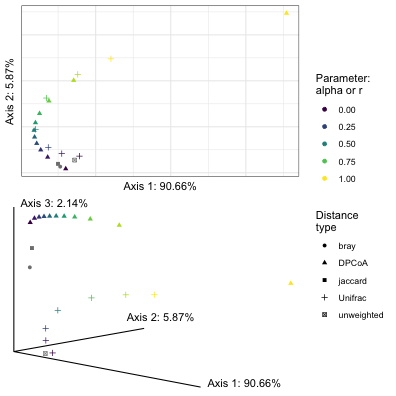
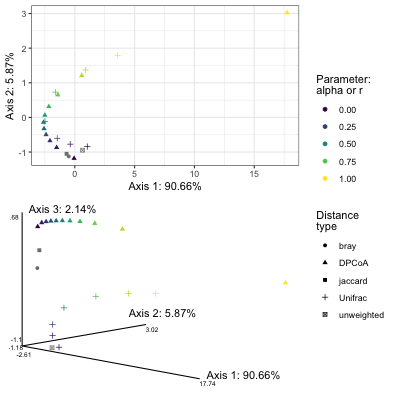
updated figures

diff --git a/make_plots.md b/make_plots.md
@@ -3,7 +3,7 @@
 ```r
 library(knitr)
 opts_chunk$set(cache=TRUE, cache.path = "figures-cache/",
-    fig.path = "figures/", dev="png",
+    fig.path = "figures/", dev=c("png"),
     fig.width = 5, fig.height = 3)
 ```
 
@@ -109,10 +109,19 @@ Accumulation plot:
 
 
 ```r
-contrib_accumulation_plot(contrib_matrix, phy_tree(abt_log), unlist(alpha_list))  +
+contrib_accumulation_plot_old(contrib_matrix, phy_tree(abt_log), unlist(alpha_list))  +
         geom_point(size=.5) + geom_line() +
         scale_x_log10(breaks = c(2, 5, 10, 25, 50, 100, 250, 500, 1000, 2500)) +
         xlab("Number of descendants") + ylab("Proportion of distance") + labs(color = "alpha")
+```
+
+![plot of chunk branch-decomp-accum-plot-old](figures/branch-decomp-accum-plot-old-1.png)
+
+
+```r
+contrib_accumulation_plot(contrib_matrix, phy_tree(abt_log), unlist(alpha_list))  +
+        geom_point(size=.5) + geom_line() +
+        xlab("Proportion of branches") + ylab("Proportion of distance") + labs(color = "alpha")
 ```
 
 ![plot of chunk branch-decomp-accum-plot](figures/branch-decomp-accum-plot-1.png)
@@ -174,6 +183,25 @@ ggplot(tree_and_covariates) +
 ```
 
 ![plot of chunk branch-decomp-avg-pairs-plot-abt](figures/branch-decomp-avg-pairs-plot-abt-2.png)
+
+Compute unnormalized branch contributions (for a full branches, not per unit branch).
+
+
+```r
+contrib_matrix_unnormalized = get_all_branch_contribs(
+    X = t(as(otu_table(abt_log), "matrix")),
+    tr = phy_tree(abt_log),
+    alpha_list = alpha_list, per_unit_branch = FALSE)
+```
+
+
+```r
+contrib_accumulation_plot(contrib_matrix_unnormalized, phy_tree(abt_log), unlist(alpha_list))  +
+        geom_point(size=.5) + geom_line() +
+        xlab("Proportion of branches") + ylab("Proportion of distance") + labs(color = "alpha")
+```
+
+![plot of chunk unnormalized-branch-decomp-accum-plot](figures/unnormalized-branch-decomp-accum-plot-1.png)
 
 ## Glomming
 
@@ -298,22 +326,28 @@ out_distatis = distatis(distance_array)
 ```r
 labs = sprintf("Axis %i: %4.2f%%", 1:length(distance_list),
     out_distatis$res4Cmat$eigValues / sum(out_distatis$res4Cmat$eigValues) * 100)
-plotting = data.frame(distance_types, out_distatis$res4Cmat$eigVector)
+plotting = data.frame(distance_types, sweep(scale(out_distatis$res4Cmat$eigVector, center = TRUE), MARGIN = 2, STAT = sqrt(out_distatis$res4Cmat$eigValues), FUN = "*"))
 plotting$dim.1 = -plotting$dim.1
 p2d = ggplot(plotting) +
     geom_point(aes(x = dim.1, y = dim.2, shape = family, color = param)) +
     xlab(labs[1]) +  ylab(labs[2]) + labs(color = "Parameter:\nalpha or r", shape = "Distance\ntype") +
-        scale_color_viridis() + guides(color = guide_legend(barwidth = 3)) + 
-            theme(axis.ticks = element_blank(), axis.text = element_blank())
+        scale_color_viridis() + guides(color = guide_legend(barwidth = 3))
 theta = 35
 phi = 0
-p3d = ggplot(plotting, aes(x = dim.1, y = dim.2, z = dim.3, color = param, shape = family)) + 
+p3d =
+    ggplot(plotting, aes(x = dim.1, y = dim.2, z = dim.3, color = param, shape = family)) +
     labs_3D(labs=labs[1:3],theta = theta, phi = phi,
             hjust=c(-.1,.25,-.1), vjust=c(0, -1, 0), angle=c(0, 0, 0)) +
     labs(color = "Parameter:\nalpha or r", shape = "Distance\ntype") +
+        axis_labs_3D(data = function(x) {
+            ## this is to make the scales for the axes display correctly
+            x$dim.1 = round(as.numeric(x$dim.1), digits = 2)
+            x$dim.2 = round(as.numeric(x$dim.2), digits = 2)
+            x$dim.3 = round(as.numeric(x$dim.3), digits = 2)
+            return(x)
+        }, size=2.3,theta = theta, phi = phi,hjust=c(0,1.2,0,2.1,1.27,1),vjust=c(1.5,1.8,1.5,1.5,1.5,2)) +
     axes_3D(theta = theta, phi = phi) + stat_3D(theta=theta, phi = phi) +
-        scale_color_viridis() + theme_void()
-
+    scale_color_viridis() + theme_blank()
 grid.arrange(p2d + theme(legend.position = "none"),
              g_legend(p2d),
              p3d + theme(legend.position = "none"),
